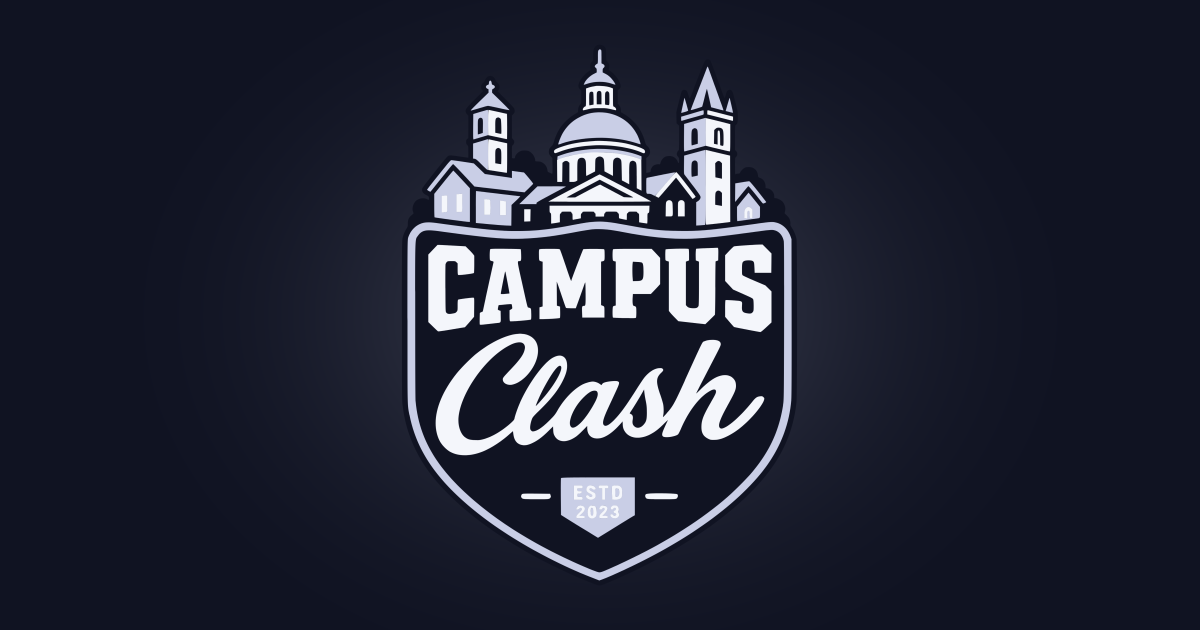
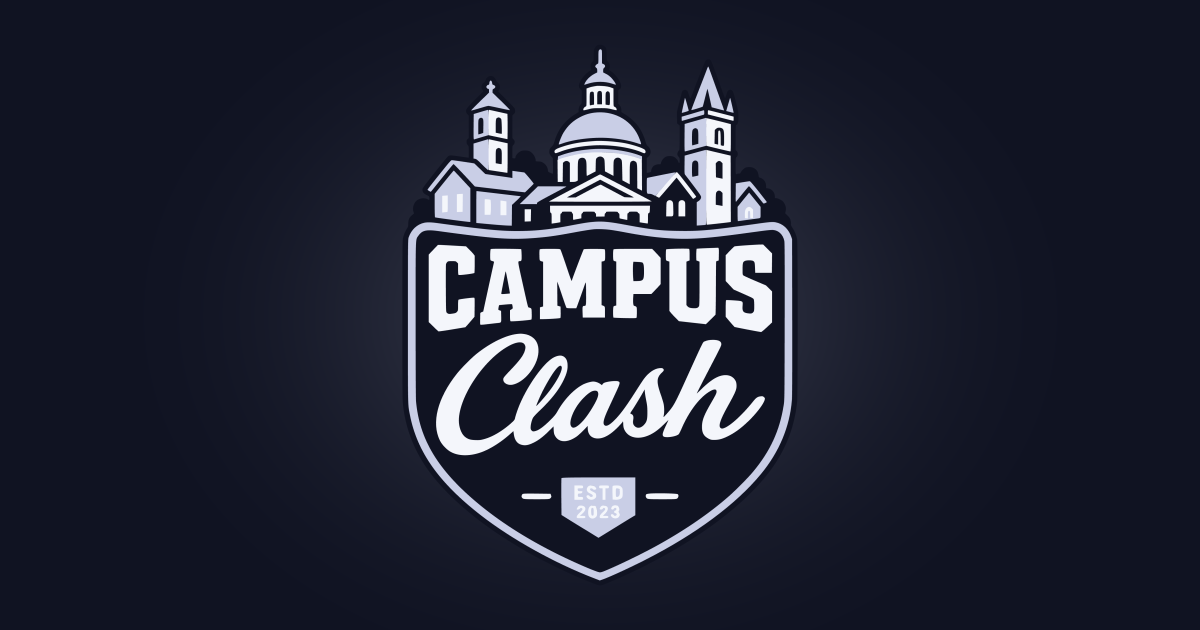
Render each crest at its own size; guide says login is not on the parent crest yet
QA review on #601: crest-parent.svg is 1024x1414, not the Hardwood crest's
1095x1437, so the documented render letterboxed it. Parent card rebuilt at
its native size; docstring now says to match --window-size to the SVG.

diff --git a/design/tools/make_badge_og.py b/design/tools/make_badge_og.py
@@ -2,11 +2,13 @@
 """Build a 1200x630 social share image from a tall crest (#321).
 
 The masters are the vector crests in design/brand/. Nothing in design/tools
-rasterizes SVG, so render one at 2x with headless Chrome first (transparent
-background, 1095x1437 CSS px -> 2190x2874), then fit it here:
+rasterizes SVG, so render one at 2x with headless Chrome first, on a
+transparent background at the SVG's own width/height (crest-hardwood.svg is
+1095x1437, crest-parent.svg 1024x1414 -- set --window-size to match), then fit
+it here:
 
-    echo "<style>html,body{margin:0;background:transparent}img{display:block;\
-      width:1095px;height:1437px}</style><img src='file://$PWD/design/brand/crest-hardwood.svg'>" \
+    echo "<style>html,body{margin:0;background:transparent}img{display:block}</style>\
+<img src='file://$PWD/design/brand/crest-hardwood.svg'>" \
         > /tmp/crest.html
     "/Applications/Google Chrome.app/Contents/MacOS/Google Chrome" --headless=new \
         --allow-file-access-from-files --default-background-color=00000000 \

diff --git a/Branding Guide.md b/Branding Guide.md
@@ -18,7 +18,7 @@
 
 The source of truth is the `--cc-*` token block at the top of `public/styles.css`; this table mirrors it. If they disagree, the CSS wins.
 
-**The accent follows the sport.** Football (Gridiron) uses the red above. Basketball (Hardwood) swaps it for `#F0833F` orange via `:root[data-sport="basketball"]`. Sport-neutral surfaces (login, invites, the root link preview) use the parent crest, whose accent is `#C9CEE6` (`--cc-muted-bright`).
+**The accent follows the sport.** Football (Gridiron) uses the red above. Basketball (Hardwood) swaps it for `#F0833F` orange via `:root[data-sport="basketball"]`. Sport-neutral surfaces use the parent crest (the campusclash.io link preview today; the login and invite pages still show the red football crest until #319 moves them), whose accent is `#C9CEE6` (`--cc-muted-bright`).
 
 ---
 
